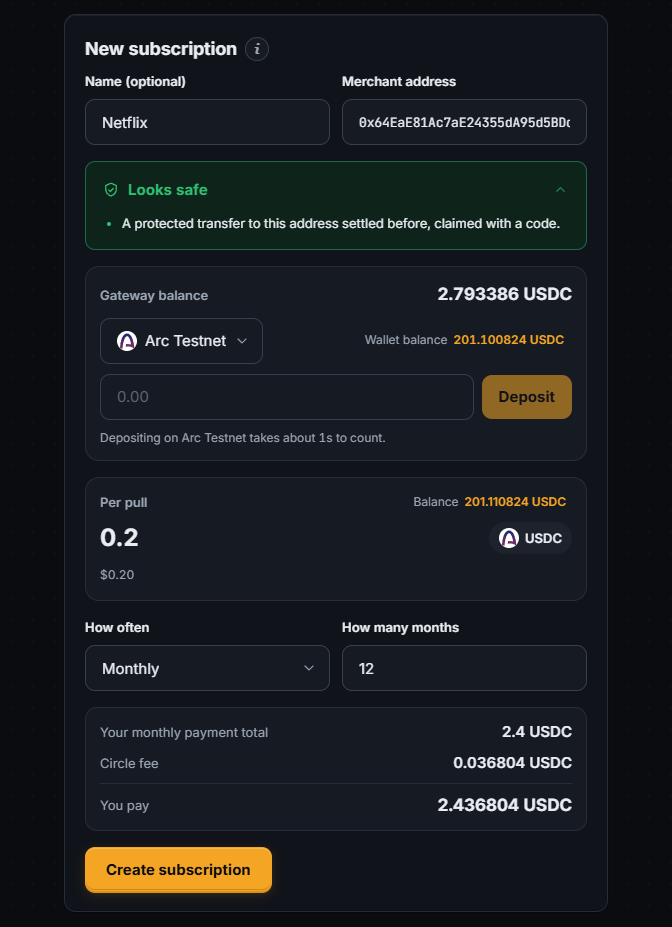
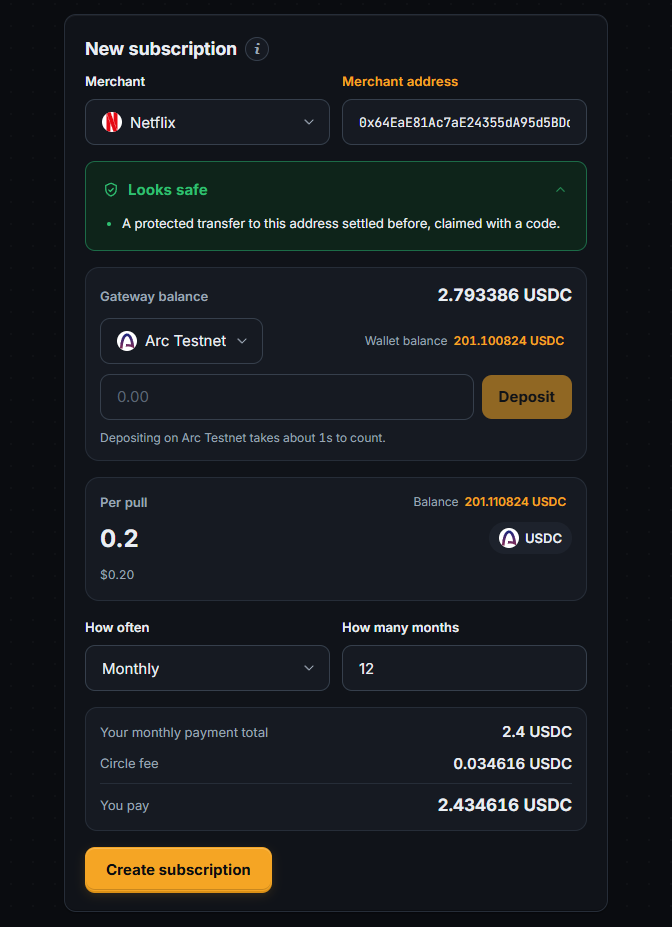
docs: retake the subscription screens
All four show the merchant picker and the accent on the address now, and the
list carries the marks. The create caption said "name it", which stopped
being what the form asks for.

diff --git a/README.md b/README.md
@@ -495,7 +495,7 @@ You stay invisible (the merchant sees the box, never your wallet), you stay boun
 
 The co-signer is a gatekeeper, not a custodian. Bringing the money home (`sweepToVault`, or `sweepExpired` once the date passes) needs only your own key, never the co-signer's, so if The Machine goes offline or turns hostile it can stall a pull but can never hold your funds. Its role is liveness, not custody: worst case you sweep and the subscription simply ends. There is no timezone or clock trick to exploit either, since the on-chain caps (per-pull and total) bound the loss independently of time, and the contract compares a plain UTC block timestamp against an interval in seconds.
 
-**Create a subscription.** Name it, point it at a merchant, then say the two things anyone actually has in mind: how much each charge is, and how many of them. The budget is shown rather than asked, because it is an answer, and it is shown beside what Circle charges to move it into the box and what the two come to together. Authorising a subscription is a payment, and it was the last payment screen in the app that did not say what would leave the wallet.
+**Create a subscription.** Pick the merchant from a list rather than typing its name, point it at an address, then say the two things anyone actually has in mind: how much each charge is, and how many of them. The name is picked because it is not local trivia: it is packed into the box's stealth announcement, so a typo would follow the box to every other device. The budget is shown rather than asked, because it is an answer, and it is shown beside what Circle charges to move it into the box and what the two come to together. Authorising a subscription is a payment, and it was the last payment screen in the app that did not say what would leave the wallet.
 
 ![Create a subscription](./docs/screenshots/subscriptions-create.png)
 
